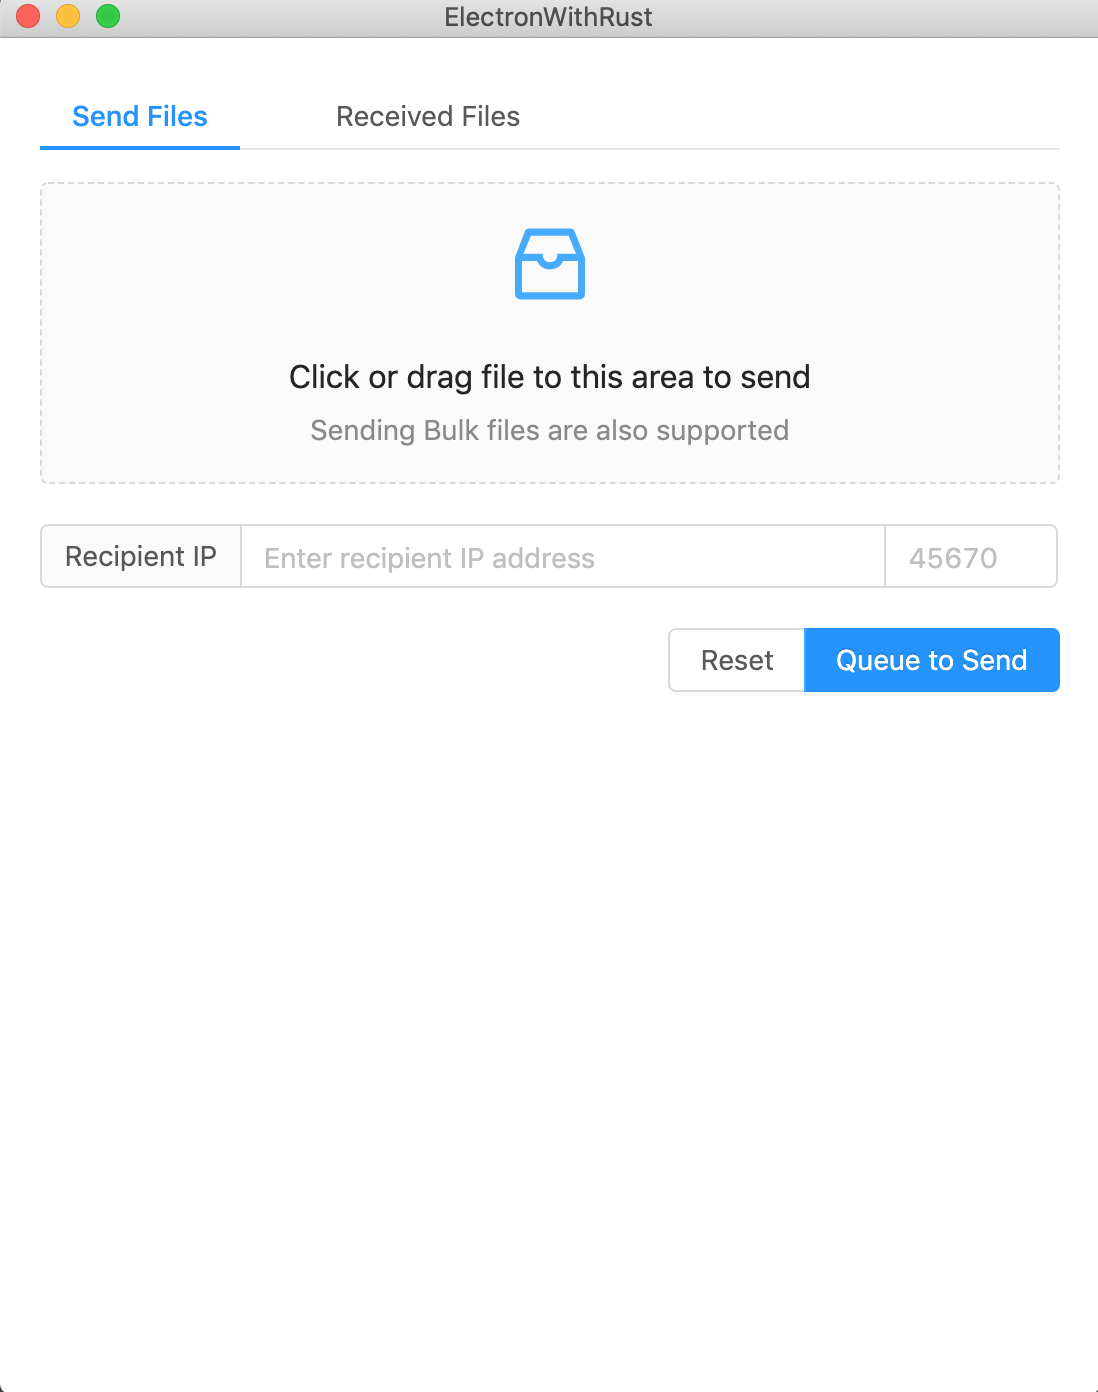
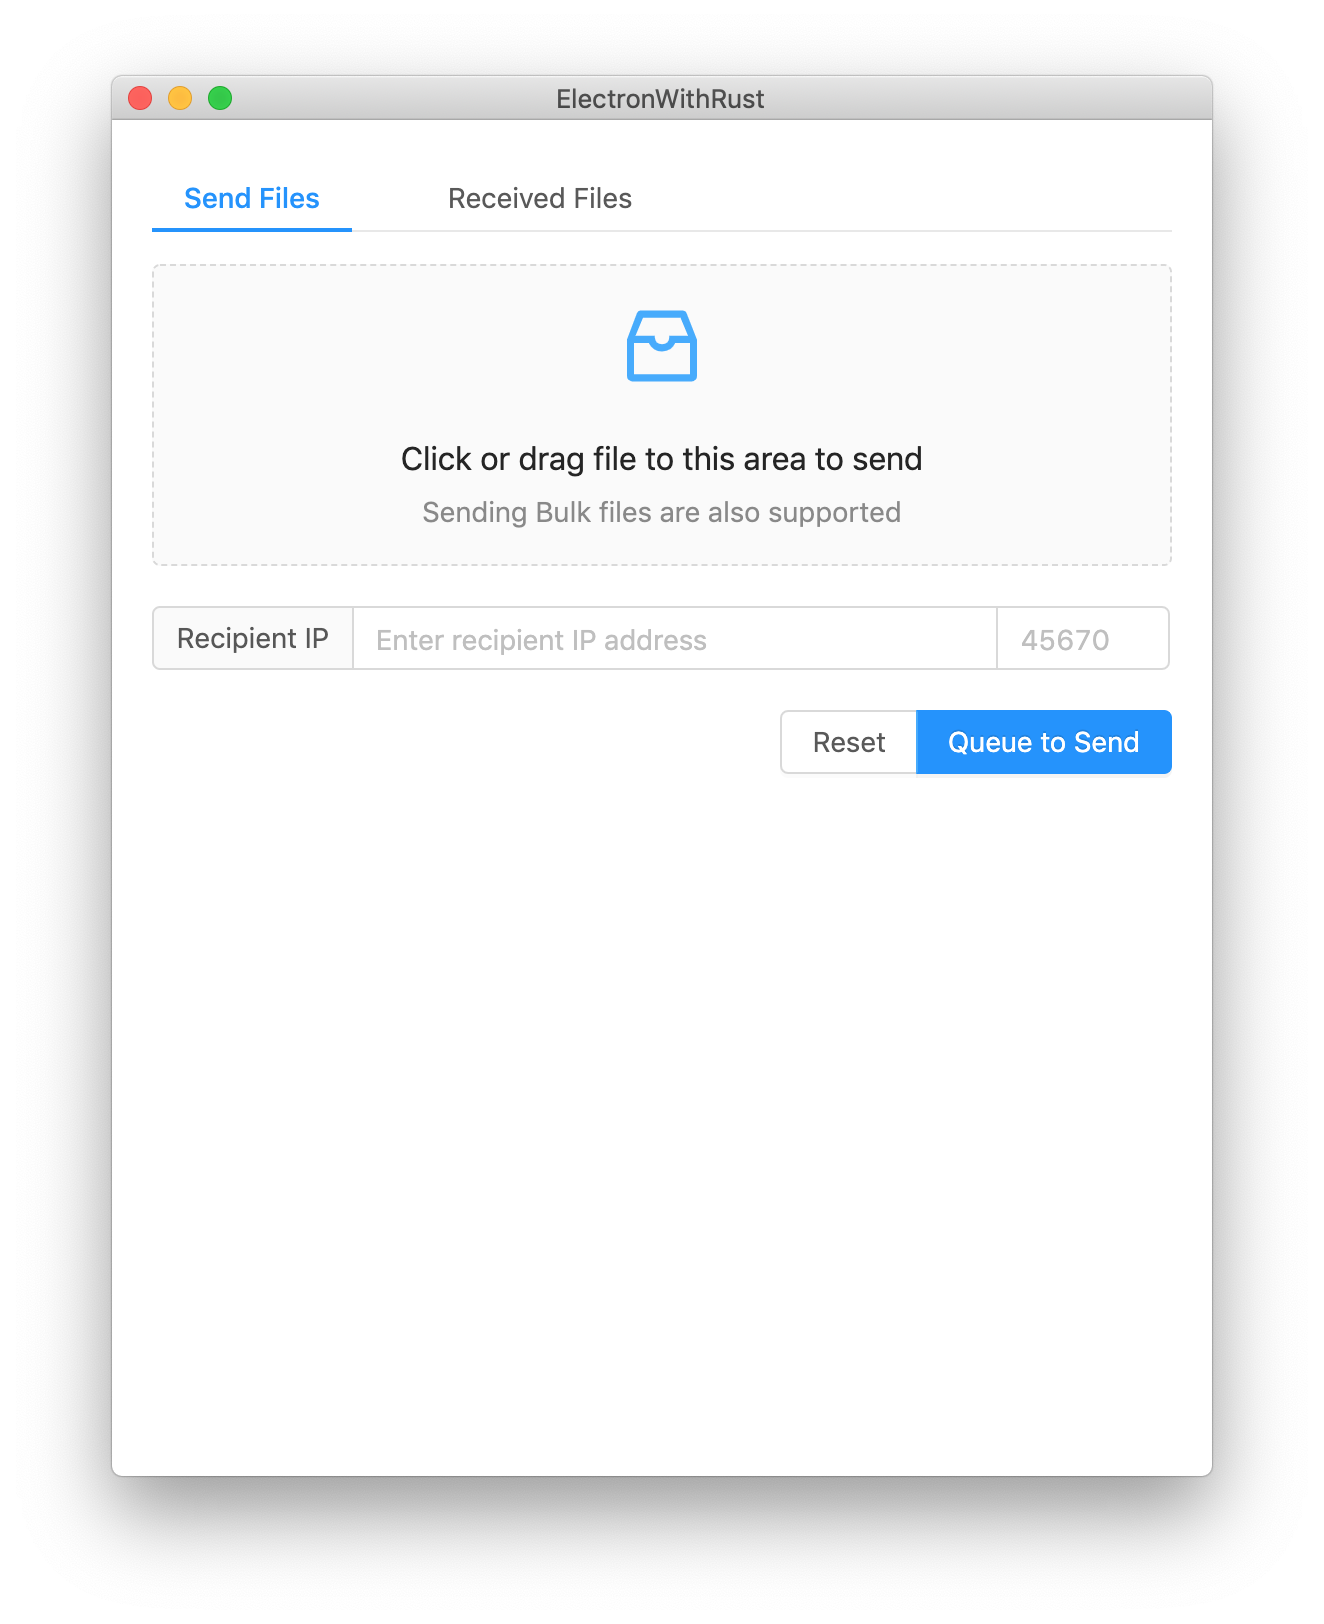
Update README

Changed region(s): [[0.0, 0.0, 1.0, 0.9576], [0.2477, 0.1545, 0.7432, 0.3398]]

diff --git a/README.md b/README.md
@@ -1,5 +1,5 @@
 <p align="center">
-  <img src="https://raw.githubusercontent.com/rousan/electron-with-rust/master/demo.png" alt="Demo on macOS" height="600">
+  <img src="https://raw.githubusercontent.com/rousan/electron-with-rust/master/demo.png" alt="Demo on macOS" height="700">
     <br>
     <br>
 </p>
